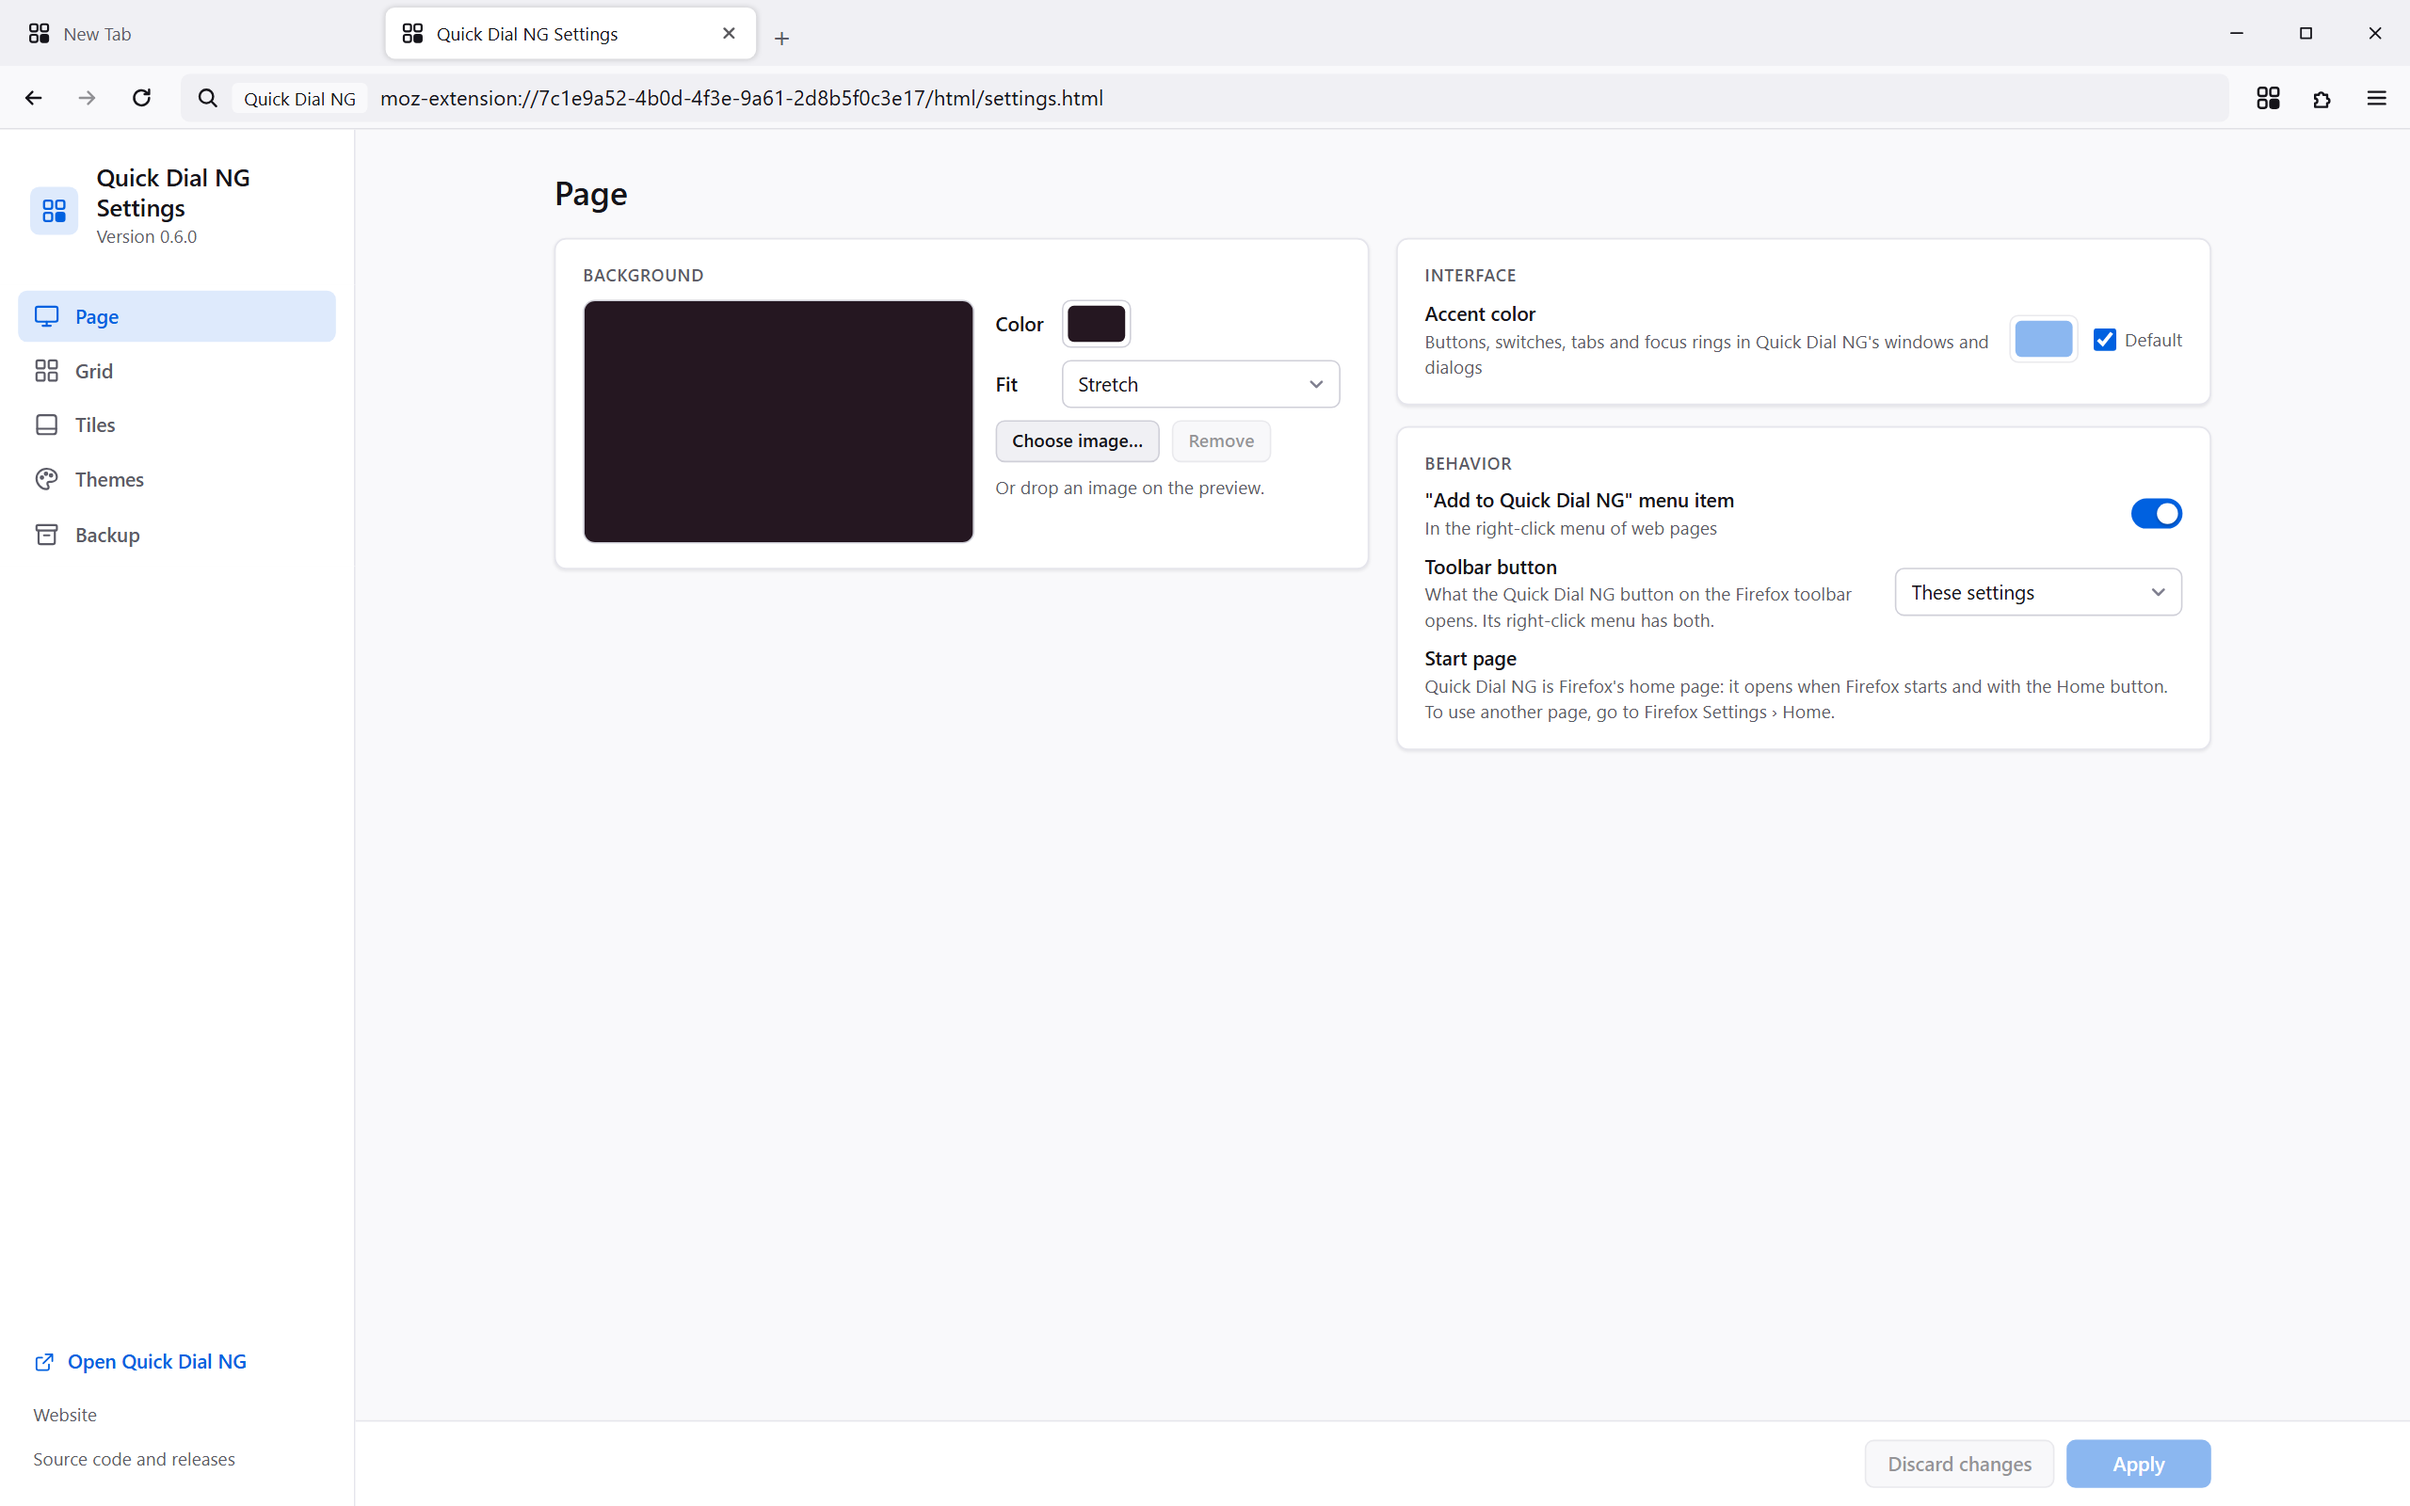
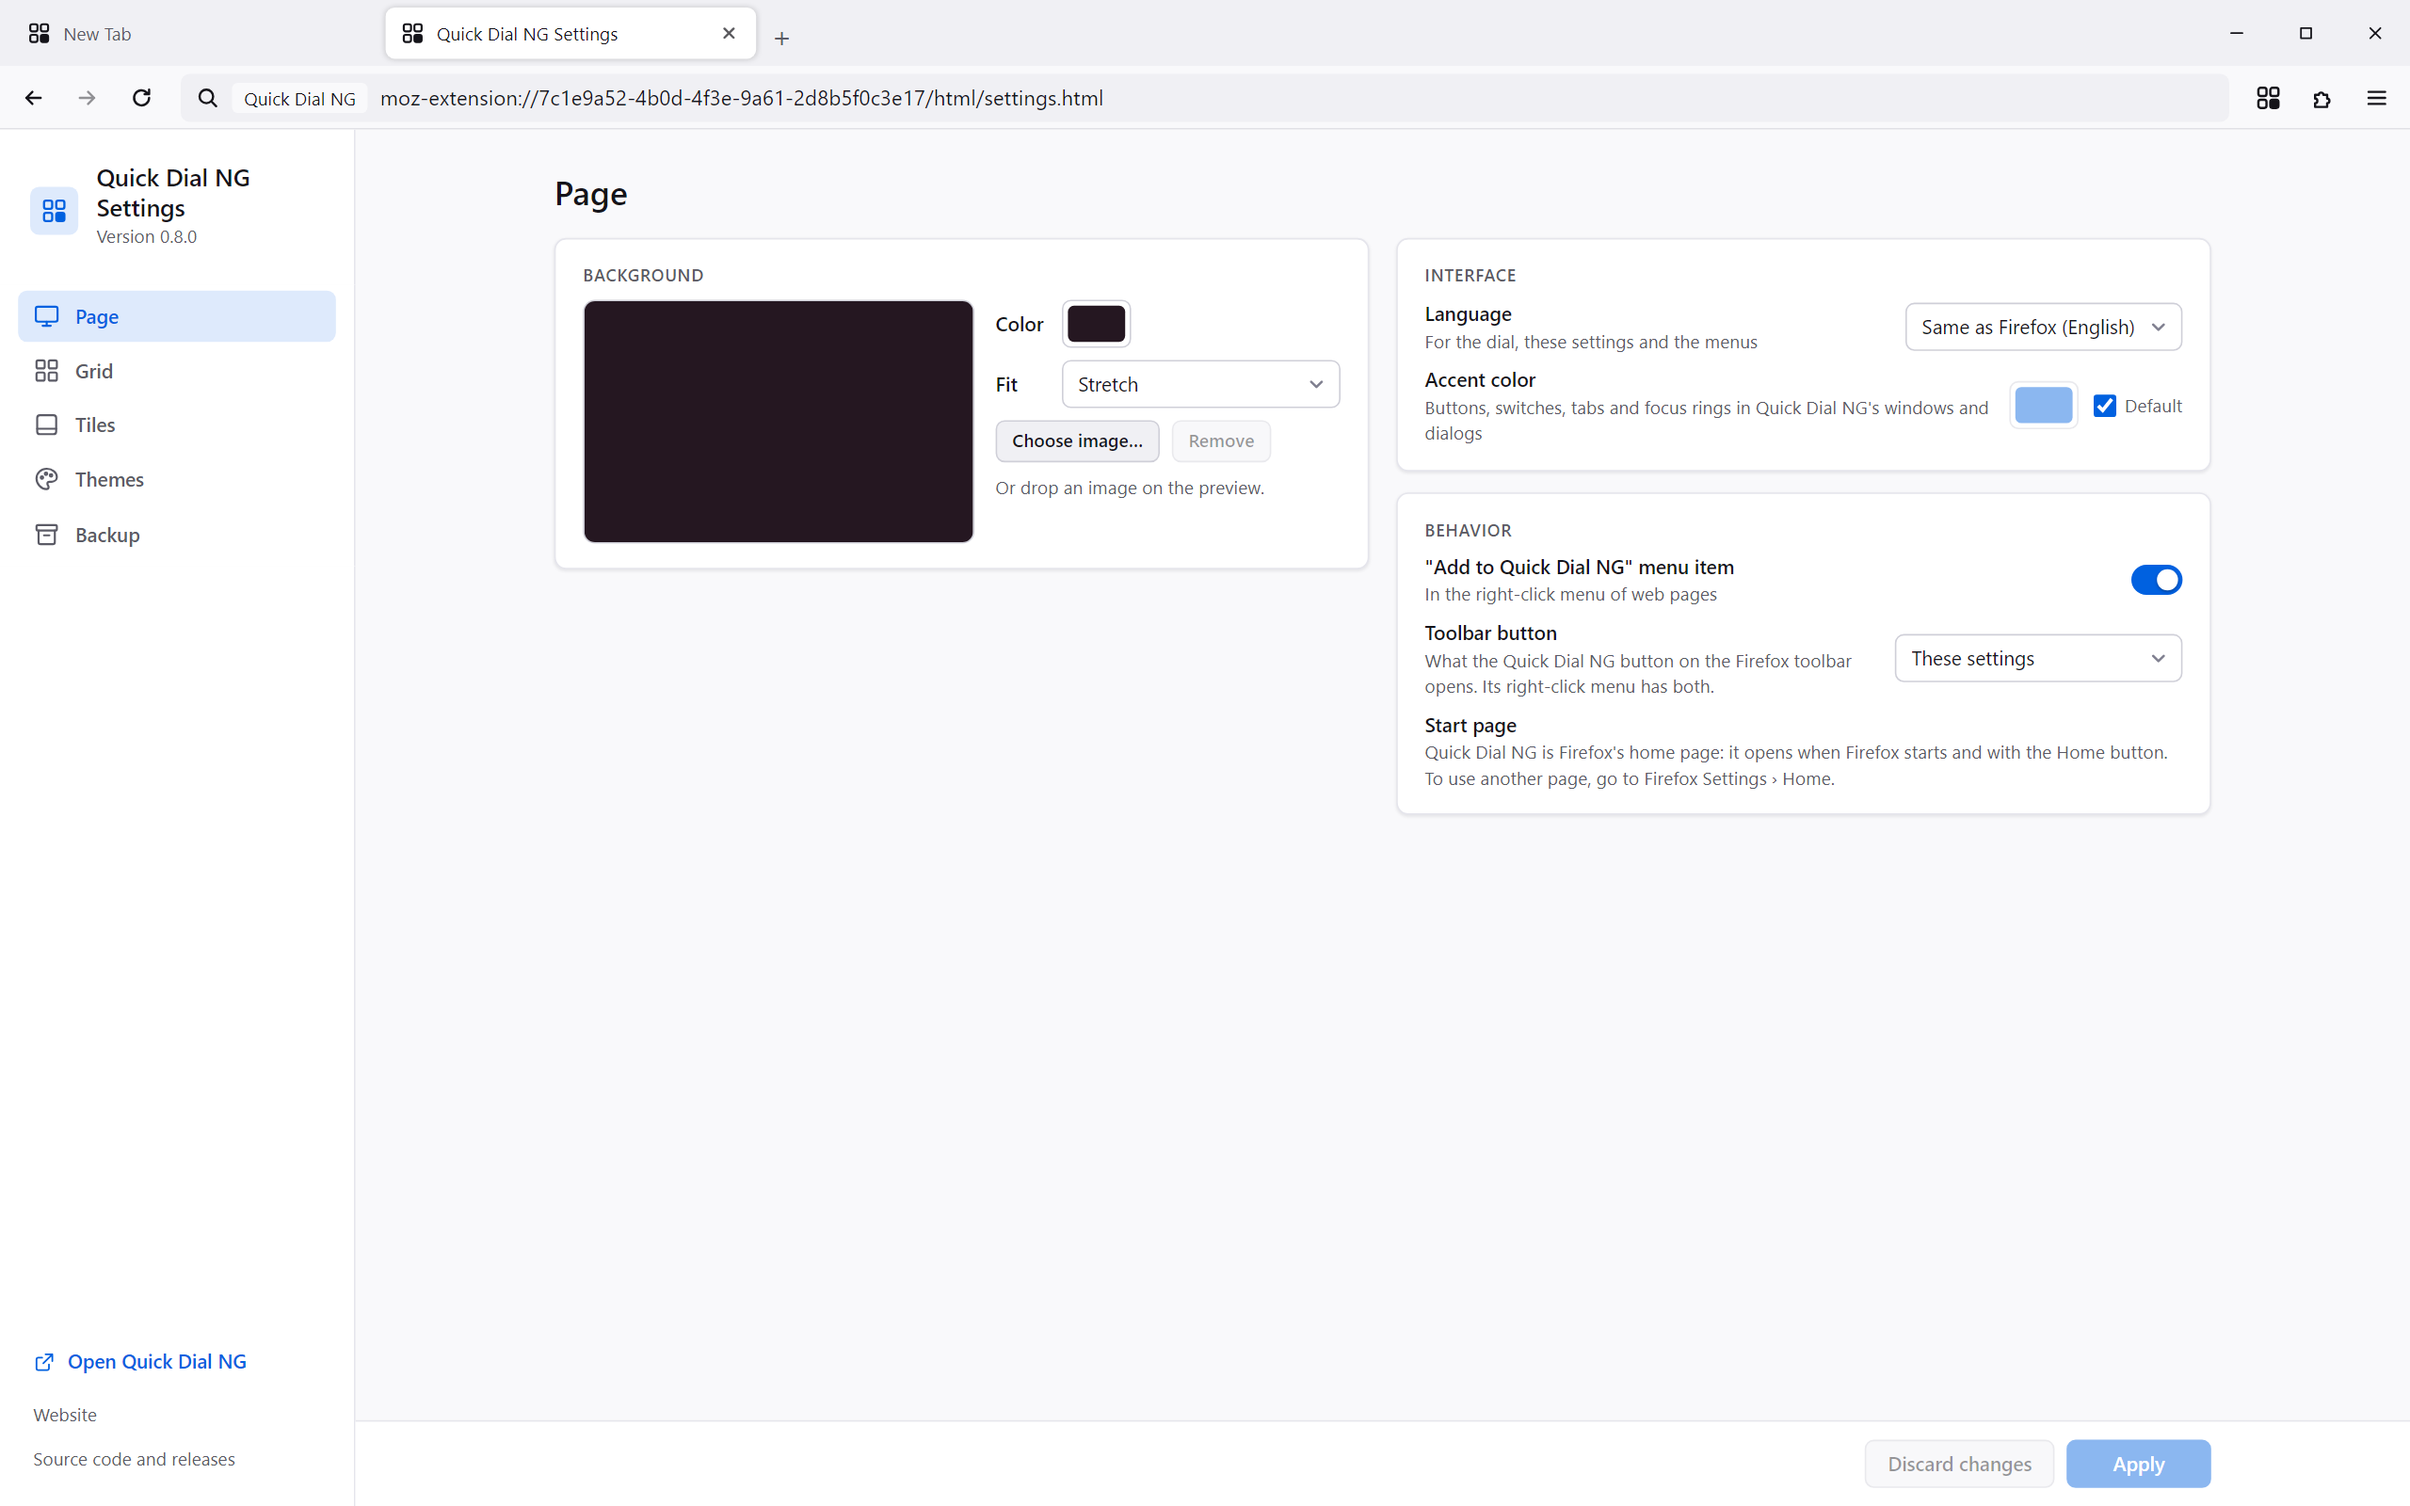
Release 0.8.0: version bump, release notes, docs and Settings screenshots
- src/manifest.json: 0.8.0 (the first version without gecko_android)
- release/amo-listing.md: release notes for 0.8.0 (click effects, the Language setting,
  every text translated in 11 languages, the picture controls, two fixes, desktop only);
  the description mentions click effects and the language choice
- README.md: click effects and the Language setting under what is different; Development
  lists the three stylesheets and the language files, the ESLint coverage of src/css with
  the project's own rules, release/lint.js as the package check, and the new unit tests
- screenshots: the Settings pictures remade (the sidebar shows 0.8.0, Page has Language,
  Tiles has Click effect). The dial and Properties pictures differ from a fresh run only
  by text anti-aliasing, so they are kept.

Changed region(s): [[0.5938, 0.1875, 0.9062, 0.5312], [0.875, 0.3125, 0.9062, 0.4062], [0.7812, 0.375, 0.8438, 0.4062]]

diff --git a/README.md b/README.md
@@ -59,6 +59,10 @@ Settings opens as a full page in its own tab, like the dashboards of other add-o
 **Themes.**
 Settings → **Themes** switches the whole look of the dial at once: background color, page margin, tile and title styles and the accent color of Quick Dial NG's windows. A theme never changes your background picture, rows and columns, tile shape or tiles. **Use** shows a theme in the settings first; **Apply** puts it on the dial. Seven themes are built in: **Classic** (the original look); **Anori**, inspired by the [Anori](https://anori.app/) browser extension; **Plum**, for a large grid with groups of sites; **Dusk**, glass tiles over a sunset; and three icon looks for square tiles with icon pictures: **Desktop**, **Retro PC** (a late-1990s PC desktop) and **Retro Mono** (an early black-and-white desktop). Save your current look as a theme, export any theme to a `.json` file and import theme files from others. Backups include your themes.
 New style settings came with it: background opacity and glass blur for tiles, shadows, smooth hover effects (lift or grow), title font, bold titles and titles over the picture.
+Settings → Tiles → **Click effect** plays an effect when a tile is clicked: Press, Bounce, Ripple, Flash or Pulse ring (None by default). The sample tiles show it as soon as it is chosen, and themes carry it. It starts on mouse down or Enter, so it shows even when the site opens in the same tab, and it is off when the system asks to reduce motion.
+
+**Your language, or another one.**
+Every text of the dial, Settings, Properties, the dialogs and the menus comes from the language files, in 11 languages: English, German, Spanish, French, Hebrew (right to left), Italian, Polish, Portuguese (Brazil), Russian, Serbian and Ukrainian, each with its own plural forms. By default Quick Dial NG follows Firefox's language; Settings → Page → **Language** picks another one. Firefox's Add-ons page keeps showing the name and description in Firefox's language.
 
 **Refresh and Capture no longer hang.**
 The automatic "Refresh" capture uses `drawWindow`, which recent Firefox no longer allows extensions to call. Instead of leaving a spinner forever, the tile now ends without a picture. Use **Capture in a new tab** to set one.
@@ -111,11 +115,11 @@ How the import links tiles to bookmarks: each tile is matched to a bookmark in t
 
 ## Development
 
-- Source: `src/` (a Manifest V2 WebExtension): plain scripts, no build step and no libraries. The background page is `src/js/background/` (one file per part, listed in [`app.js`](src/js/background/app.js)); the pages are `dial.html`, `html/settings.html` and `html/properties.html`, each with its script in `src/js/`; the dial has two: `grid.js` draws the tiles and `dial.js` gets them from the background page and handles the mouse, the keyboard and the tile commands. Message commands, node types and picture helpers shared by all of them, and the pages' message client (`QDClient`), are in `src/js/common.js`; helpers for the Settings and Properties pages (and the dial's dialogs and popup frame) are in `src/js/ui.js`.
-- Code check: `npm install --include=dev`, then `npm run check`: [ESLint](eslint.config.mjs) for all of `src/js` and the tests (`npm run lint:fix` fixes what it can) and TypeScript's checker for the background page ([jsconfig.json](jsconfig.json), no build: the same check VSCodium shows while editing). Formatting and naming: [CODE_STYLE.md](CODE_STYLE.md).
-- Package check: `npx web-ext lint -s src --self-hosted` (should report no errors, warnings or notices). `--self-hosted` is needed because the add-on is distributed from GitHub with its own `update_url`, which the linter otherwise rejects as if it were listed on addons.mozilla.org. The package for addons.mozilla.org is the same source without `update_url`; `release.js --amo` lints it with the listed rules.
+- Source: `src/` (a Manifest V2 WebExtension): plain scripts, no build step and no libraries. The background page is `src/js/background/` (one file per part, listed in [`app.js`](src/js/background/app.js)); the pages are `dial.html`, `html/settings.html` and `html/properties.html`, each with its script in `src/js/`; the dial has two: `grid.js` draws the tiles and `dial.js` gets them from the background page and handles the mouse, the keyboard and the tile commands. Message commands, node types and picture helpers shared by all of them, and the pages' message client (`QDClient`), are in `src/js/common.js`; helpers for the Settings and Properties pages (and the dial's dialogs and popup frame) are in `src/js/ui.js`. Styles: `src/css/ui.css` (tokens, controls and dialogs, on every page), `page.css` (Settings and Properties) and `settings.css` (Settings only). Texts: `src/_locales/<language>/messages.json`, read through `QDCommon.text` so the language chosen in Settings applies (see [CODE_STYLE.md](CODE_STYLE.md) for adding a language).
+- Code check: `npm install --include=dev`, then `npm run check`: [ESLint](eslint.config.mjs) for `src/js`, the stylesheets in `src/css` and the tests, with the project's own rules in [`eslint-rules/`](eslint-rules/) (descriptive names, CSS class and token names, colours only from tokens; `npm run lint:fix` fixes what it can) and TypeScript's checker for the background page ([jsconfig.json](jsconfig.json), no build: the same check VSCodium shows while editing). Formatting and naming: [CODE_STYLE.md](CODE_STYLE.md).
+- Package check: `node release/lint.js src --self-hosted` runs `web-ext lint` and passes only with no errors, warnings or notices except one: without `gecko_android` (the add-on is for the desktop only) the linter warns that `data_collection_permissions` needs Firefox for Android 142. `--self-hosted` is needed because the add-on is distributed from GitHub with its own `update_url`, which the linter otherwise rejects as if it were listed on addons.mozilla.org. The package for addons.mozilla.org is the same source without `update_url`; `release.js --amo` lints it with the listed rules.
 - Tests (see [test/README.md](test/README.md)):
-  - Unit tests: `npm run test:unit`. They run in plain Node and need nothing installed. They cover the logic: themes, settings upgrades, the tile tree, backups and pictures.
+  - Unit tests: `npm run test:unit`. They run in plain Node and need nothing installed. They cover the logic: themes, settings upgrades, the tile tree, backups and pictures, the language choice, and that every language file has every text.
   - Integration tests: `npm install` in `test/`, then `npm test` there (unit tests too) or `npm test -- dial sync` for some areas. They run the extension pages in Chromium (Playwright) against a simulated Firefox API (`test/mock.js`), one suite per area, each from a fresh profile. `npm run coverage` in `test/` shows which code the tests run.
 - Screenshots: `npm run screenshots` in `test/` remakes the pictures in [`screenshots/`](screenshots/) from the current code, with invented sites (see [test/screenshots/README.md](test/screenshots/README.md)).
 - Release: bump `version` in `src/manifest.json` and add its notes to [release/amo-listing.md](release/amo-listing.md) in a pull request; once it is merged, the **Release** workflow (Actions tab) tests the commit, builds the package and, after your approval, submits it to addons.mozilla.org and tags it. When Mozilla approves the version, the **Publish** workflow puts the same signed `.xpi` on GitHub Releases. `node release/release.js` is the manual way from a PC. See [release/README.md](release/README.md) for setup and options.

diff --git a/release/amo-listing.md b/release/amo-listing.md
@@ -33,7 +33,7 @@ Quick Dial NG turns your new tab and home page into a grid of tiles. Each tile i
 
 - Switch the whole look at once: background, tile and title styles, and the accent colour of the settings.
 - Built in: Classic (the original Quick Dial look); Anori, inspired by the [Anori](https://anori.app/) extension; Plum, for a large grid with groups of sites; Dusk, glass tiles over a sunset; and Desktop, Retro PC and Retro Mono, which turn square tiles with icon pictures into a computer desktop.
-- Glass tiles with blur, shadows, smooth hover effects, title fonts, and titles over the picture.
+- Glass tiles with blur, shadows, smooth hover and click effects, title fonts, and titles over the picture.
 - Save your own themes, and export or import them as .json files.
 
 **Moving from Quick Dial**
@@ -58,7 +58,7 @@ No data is collected or sent anywhere. Settings and pictures stay in your Firefo
 - Menus: the right-click menu on the dial and on the toolbar button.
 - Storage: settings, themes and pictures.
 
-For Firefox on the desktop, version 140 or later. Available in English, German, Spanish, French, Hebrew, Italian, Polish, Portuguese (Brazil), Russian, Serbian and Ukrainian.
+For Firefox on the desktop, version 140 or later. Available in English, German, Spanish, French, Hebrew, Italian, Polish, Portuguese (Brazil), Russian, Serbian and Ukrainian: it follows Firefox's language, or the one you choose in Settings.
 
 Open source (MPL 2.0): [github.com/YuriyWozniak/quickdial-ng](https://github.com/YuriyWozniak/quickdial-ng)
 ```
@@ -93,6 +93,17 @@ The seven main pictures from [`screenshots/`](../screenshots/), in this order (t
 ## Release notes
 
 The "Release notes" field of each version on AMO; the same text goes to the GitHub release (`--notes`). Newest first.
+
+### 0.8.0
+
+```
+- Click effects for tiles: Settings › Tiles › Click effect plays Press, Bounce, Ripple, Flash or Pulse ring when you click a tile. The sample tiles show it right away. Themes you save or export keep it. No effect when your system is set to reduce motion.
+- Choose the language: Settings › Page › Language sets the language of the dial, Settings and the menus. By default it follows Firefox, as before.
+- Every text is translated now: Settings, Properties, dialogs and messages in all 11 languages, with each language's plural forms, and the wording is more natural throughout. Hebrew is shown right to left.
+- The picture controls in Properties and Settings move under the picture when a long label doesn't fit beside it.
+- Fixes: opening a dialog on the dial no longer changes the light or dark mode of the dial page's own scrollbars and controls; Apply keeps its width in a narrow Settings window.
+- Only for Firefox on the desktop: this version is no longer offered for Firefox for Android, which can't replace the new tab page.
+```
 
 ### 0.7.0
 
